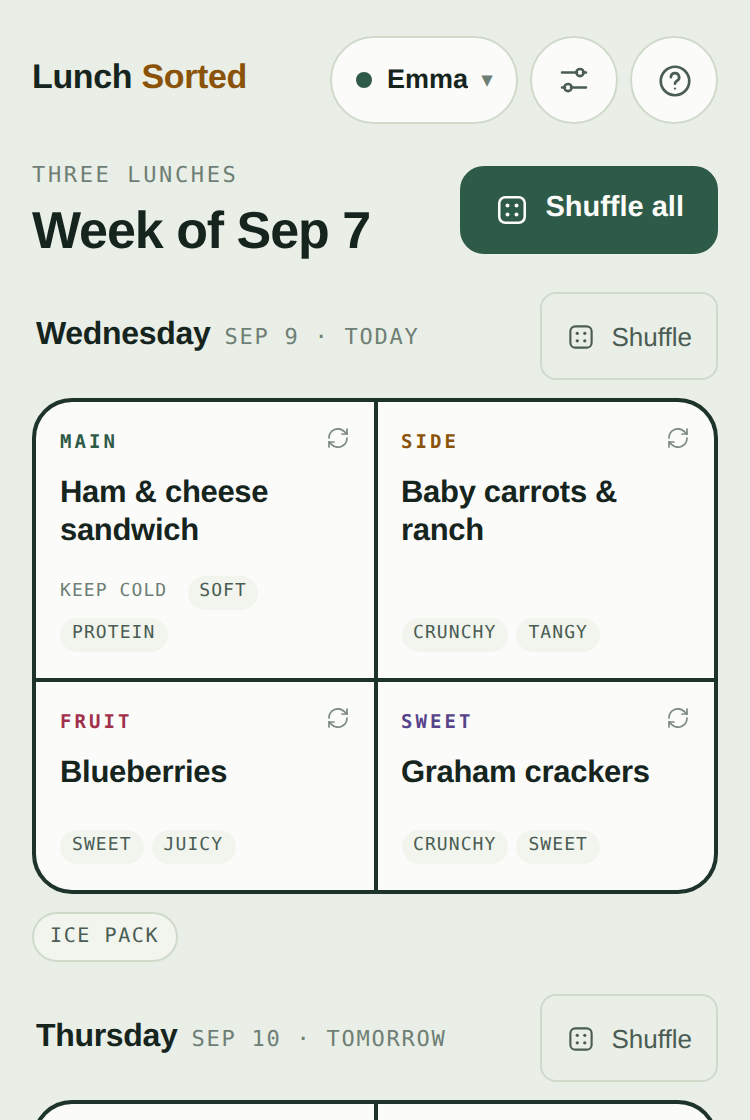
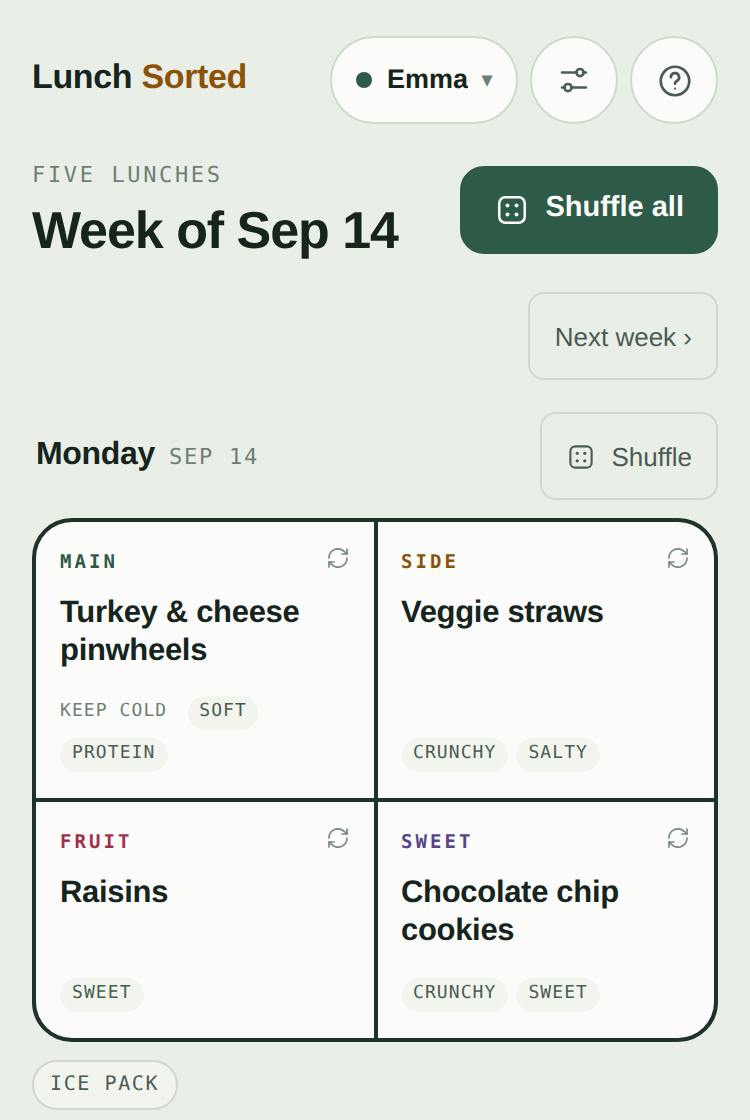
The testers' first-week emails match the app again
The three screenshots were taken before the folder tabs, so they showed a week
view that no longer exists. Taken again from the app as it is. The kid's pick
sits low on its screen, so that one is cropped to the question and the two
pictures instead of the empty top.

Day six said the app asks the morning after a packed box. It asks once the box
is home, so it now says after your kid gets home. Day one says a shuffle asks
whose boxes first when there is more than one, and that each box has a tab.

Claude-Session: https://claude.ai/code/session_01FiVWW8H7ke4r6eHAjRY3RY

diff --git a/netlify/lib/mail.js b/netlify/lib/mail.js
@@ -113,7 +113,7 @@ export function sendTester(to, site, day, stopUrl) {
     1: { subject: 'Thank you for beta testing Lunch Sorted',
          intro: 'Thank you for beta testing Lunch Sorted. I built it because I was sick of thinking about lunch every single day, and what you tell me this week is what makes it better for everyone.',
          feature: 'the week, planned in a minute.',
-         steps: ['Open the app and tap <b>Week</b>. If it is empty, tap <b>Shuffle all</b>.',
+         steps: ['Open the app and tap <b>Week</b>. If it is empty, tap <b>Shuffle all</b>. With more than one lunchbox it asks whose first, and each box has its own tab along the top.',
                  'Not sure about something? Tap that compartment and swap it, or tap <b>Shuffle</b> on that day.',
                  'Tap <b>Shop</b>. That is your grocery list, by aisle. Check off what is already home, then <b>Copy</b> it or send it to Notes.',
                  'Tomorrow morning, tap <b>Pack</b>, then <b>Packed</b>.'],
@@ -128,12 +128,12 @@ export function sendTester(to, site, day, stopUrl) {
          alt: 'The kid\u2019s pick: two pictures to choose between',
          ask: 'There are two ways to pick under that switch, <b>Each part</b> and <b>Whole box</b>. Try both if you can. Which one did your kid take to?' },
     6: { subject: 'Almost a week in. What came home?',
-         intro: 'Almost a week in, and thank you. Today is the last one: the morning after.',
+         intro: 'Almost a week in, and thank you. Today is the last one: what comes home.',
          feature: 'what came home.',
-         steps: ['The morning after a packed box, <b>Pack</b> asks how it went. Tap <b>Ate it</b>, <b>Some</b> or <b>Came home</b> for each compartment.',
+         steps: ['After your kid gets home, <b>Pack</b> asks how it went. Tap <b>Ate it</b>, <b>Some</b> or <b>Came home</b> for each compartment.',
                  'That is it. Next week\u2019s shuffle leans toward what actually got eaten.',
                  'While you are on <b>Foods</b>: <b>Add your own</b>, with what to buy for it, so the list carries your family\u2019s real food.'],
-         alt: 'The morning review: ate it, some, or came home',
+         alt: 'What came home: ate it, some, or came home',
          ask: 'Here is what I am planning next:<ul style="padding-left:22px">' + PLANNED.map(x => `<li style="margin:0 0 6px">${esc(x)}</li>`).join('') + '</ul>Would those help? What would you add? And would you keep using Lunch Sorted? Tell me why, either way.',
          askText: 'Here is what I am planning next:\n' + PLANNED.map(x => '- ' + x).join('\n') + '\n\nWould those help? What would you add? And would you keep using Lunch Sorted? Tell me why, either way.' }
   }[day];
